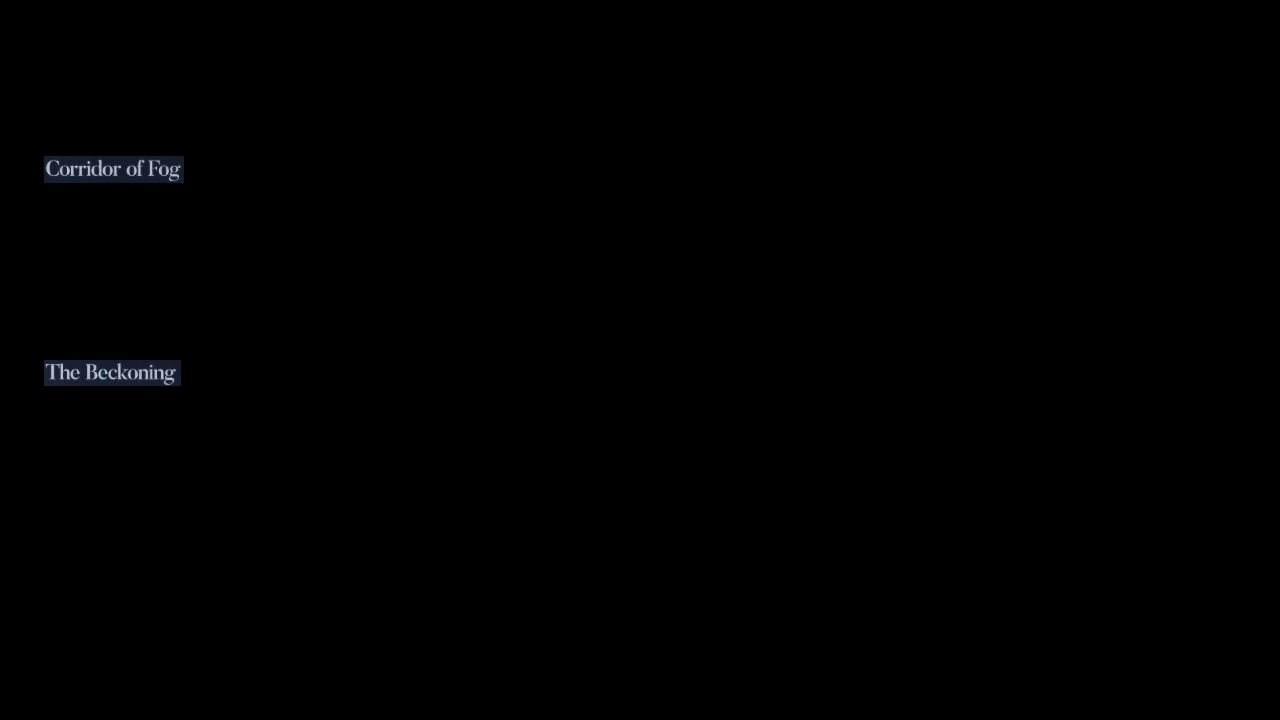
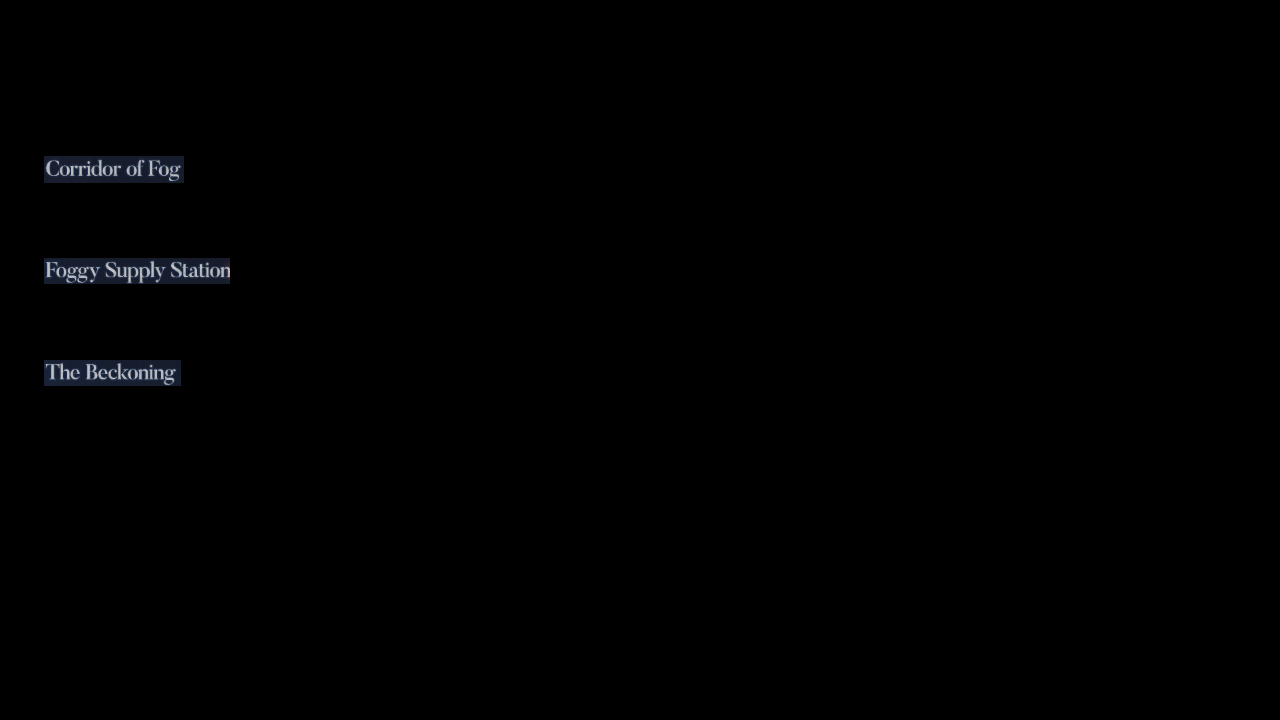
Observe exact Tempesta Foggy Supply Station tab once

Changed region(s): [[0.0312, 0.3361, 0.1875, 0.3972]]

diff --git a/tests/campaign/test_event_completion.py b/tests/campaign/test_event_completion.py
@@ -7,6 +7,7 @@ from module.campaign import event_completion as completion
 from module.campaign.event_completion import EventCompletion, load_reward_observations, save_reward_observations
 from module.campaign.event_completion_assets import (
     TEMPESTA_BECKONING_TAB, TEMPESTA_CAMPAIGN, TEMPESTA_EX_LOCKED, TEMPESTA_FEATURED_ENTRY,
+    TEMPESTA_FOGGY_SUPPLY_TAB,
     TEMPESTA_HUB, TEMPESTA_HUB_HOME, TEMPESTA_HUB_INACTIVE,
     TEMPESTA_HUB_LANDING, TEMPESTA_MAIN_ENTRY, TEMPESTA_REWARDS_TAB, TEMPESTA_SUPPLIES)
 from module.exception import GameNotRunningError, ScriptError
@@ -64,6 +65,7 @@ def test_mission_claims_do_not_report_the_unsupported_pt_ladder_as_collected():
     helper.observe_event_featured = Mock(return_value={'status': 'observed'})
     helper.observe_event_rewards_panel = Mock(return_value={'status': 'observed'})
     helper.observe_event_beckoning = Mock(return_value={'status': 'observed'})
+    helper.observe_event_foggy_supply = Mock(return_value={'status': 'observed'})
     helper.observe_event_rewards = Mock(return_value={'status': 'observed'})
     helper.observe_event_supplies = Mock(return_value={'status': 'observed'})
     result = helper.run('event_20261022_cn')
@@ -73,6 +75,7 @@ def test_mission_claims_do_not_report_the_unsupported_pt_ladder_as_collected():
                       'event_featured_observation': {'status': 'observed'},
                       'event_pt_observation': {'status': 'observed'},
                       'event_beckoning_observation': {'status': 'observed'},
+                      'event_foggy_supply_observation': {'status': 'observed'},
                       'event_reward_observation': {'status': 'observed'},
                       'event_supplies_observation': {'status': 'observed'}}
     helper.observe_event_rewards.assert_called_once_with('event_20261022_cn')
@@ -138,6 +141,7 @@ def test_main_observation_precedes_story_and_other_reward_navigation(monkeypatch
     helper.observe_event_featured = Mock(side_effect=lambda event: order.append('featured'))
     helper.observe_event_rewards_panel = Mock(side_effect=lambda event: order.append('pt'))
     helper.observe_event_beckoning = Mock(side_effect=lambda event: order.append('beckoning'))
+    helper.observe_event_foggy_supply = Mock(side_effect=lambda event: order.append('foggy_supply'))
     helper.observe_event_rewards = Mock(side_effect=lambda event: order.append('list'))
     helper.observe_event_supplies = Mock(side_effect=lambda event: order.append('supplies'))
     helper.collect_event_missions = Mock(side_effect=lambda: order.append('missions'))
@@ -145,7 +149,8 @@ def test_main_observation_precedes_story_and_other_reward_navigation(monkeypatch
     story.return_value.run.side_effect = lambda **kwargs: order.append('story')
     monkeypatch.setattr(completion, 'EventStory', story)
     helper.run('event_20261022_cn', complete_story=True)
-    assert order == ['main', 'hub', 'featured', 'pt', 'beckoning', 'story', 'list', 'supplies', 'missions']
+    assert order == ['main', 'hub', 'featured', 'pt', 'beckoning', 'foggy_supply',
+                     'story', 'list', 'supplies', 'missions']
 
 
 def test_hub_budget_precedes_navigation_and_is_reused_after_capture(monkeypatch, tmp_path):
@@ -371,16 +376,17 @@ def test_hub_home_exit_requires_both_observed_templates(missing):
         helper.device.click.assert_not_called()
 
 
+@pytest.mark.parametrize('filename', ['tempesta_rewards_catalog.png', 'tempesta_beckoning.png'])
 @pytest.mark.parametrize('missing', [None, 'title', 'home'])
-def test_catalog_selected_rewards_has_a_verified_home_exit(missing):
+def test_observed_subpanel_has_a_verified_home_exit(missing, filename):
     from pathlib import Path
     import numpy as np
     from PIL import Image
 
-    image = np.asarray(Image.open(Path('tests/campaign/data/tempesta_rewards_catalog.png')).convert('RGB')).copy()
+    image = np.asarray(Image.open(Path('tests/campaign/data') / filename).convert('RGB')).copy()
     assert not TEMPESTA_HUB.match_template_color(image, offset=(3, 3), similarity=.85)
     assert TEMPESTA_HUB_INACTIVE.match_template_color(image, offset=(3, 3), similarity=.85)
-    assert TEMPESTA_BECKONING_TAB.match_template_color(image, offset=(3, 3), similarity=.85)
+    assert TEMPESTA_FOGGY_SUPPLY_TAB.match_template_color(image, offset=(3, 3), similarity=.85)
     if missing:
         button = TEMPESTA_HUB_INACTIVE if missing == 'title' else TEMPESTA_HUB_HOME
         x1, y1, x2, y2 = button.area
@@ -432,54 +438,62 @@ def test_closed_game_does_not_spend_rewards_panel_budget(tmp_path):
     assert list(tmp_path.iterdir()) == []
 
 
-def test_beckoning_observation_has_an_independent_durable_budget(monkeypatch, tmp_path):
+@pytest.mark.parametrize('panel,tab', [('beckoning', TEMPESTA_BECKONING_TAB),
+                                     ('foggy_supply', TEMPESTA_FOGGY_SUPPLY_TAB)])
+def test_hub_tab_observation_has_an_independent_durable_budget(monkeypatch, tmp_path, panel, tab):
     helper = controller()
     previous = {'event_20261022_cn:featured': {'status': 'observed'},
                 'event_20261022_cn:pt_panel': {'status': 'observed'}}
+    if panel == 'foggy_supply':
+        previous['event_20261022_cn:beckoning'] = {'status': 'observed'}
     save_reward_observations('f2p', previous, folder=tmp_path)
 
     def inspect(record, **kwargs):
         state = load_reward_observations('f2p', folder=tmp_path)
         assert all(state[key] == value for key, value in previous.items())
-        assert state['event_20261022_cn:beckoning']['status'] == 'observing'
-        assert kwargs == {'tab_button': TEMPESTA_BECKONING_TAB, 'panel': 'beckoning'}
-        record.update(status='observed', beckoning_tab_clicks=1)
+        assert state['event_20261022_cn:' + panel]['status'] == 'observing'
+        assert kwargs == {'tab_button': tab, 'panel': panel}
+        record.update(status='observed', **{panel + '_tab_clicks': 1})
 
     helper._inspect_event_rewards_panel = Mock(side_effect=inspect)
     helper._return_event_hub_main = Mock(return_value=True)
     monkeypatch.setattr(completion, 'save_event_diagnostic', Mock(return_value='/tmp/beckoning.png'))
-    first = helper.observe_event_beckoning('event_20261022_cn', folder=tmp_path)
-    second = helper.observe_event_beckoning('event_20261022_cn', folder=tmp_path)
+    observe = getattr(helper, 'observe_event_' + panel)
+    first = observe('event_20261022_cn', folder=tmp_path)
+    second = observe('event_20261022_cn', folder=tmp_path)
     assert first['diagnostics'] == ['/tmp/beckoning.png']
     assert first['returned_main'] is True
     assert second['reused'] is True
     helper._inspect_event_rewards_panel.assert_called_once()
     helper._return_event_hub_main.assert_called_once()
-    completion.save_event_diagnostic.assert_called_once_with(helper.device, 'f2p_event_beckoning_observed')
+    completion.save_event_diagnostic.assert_called_once_with(helper.device, f'f2p_event_{panel}_observed')
 
 
-def test_interrupted_beckoning_observation_never_retries_entry(tmp_path):
-    save_reward_observations('f2p', {'event_20261022_cn:beckoning': {'status': 'observing'}}, folder=tmp_path)
+@pytest.mark.parametrize('panel', ['beckoning', 'foggy_supply'])
+def test_interrupted_hub_tab_observation_never_retries_entry(tmp_path, panel):
+    save_reward_observations('f2p', {'event_20261022_cn:' + panel: {'status': 'observing'}}, folder=tmp_path)
     helper = controller()
     helper._inspect_event_rewards_panel = Mock()
-    result = helper.observe_event_beckoning('event_20261022_cn', folder=tmp_path)
-    assert result['reason'] == 'previous_beckoning_observation_interrupted'
+    result = getattr(helper, 'observe_event_' + panel)('event_20261022_cn', folder=tmp_path)
+    assert result['reason'] == f'previous_{panel}_observation_interrupted'
     helper._inspect_event_rewards_panel.assert_not_called()
 
 
 @pytest.mark.parametrize('event', ['campaign_main', 'event_20251023_cn'])
-def test_beckoning_observer_rejects_unsupported_events_before_navigation(event, tmp_path):
+@pytest.mark.parametrize('panel', ['beckoning', 'foggy_supply'])
+def test_hub_tab_observer_rejects_unsupported_events_before_navigation(event, tmp_path, panel):
     helper = controller()
     helper.device.app_is_running = Mock(side_effect=AssertionError('must not navigate'))
-    assert helper.observe_event_beckoning(event, folder=tmp_path)['status'] == 'unsupported'
+    assert getattr(helper, 'observe_event_' + panel)(event, folder=tmp_path)['status'] == 'unsupported'
     assert list(tmp_path.iterdir()) == []
 
 
-def test_closed_game_does_not_spend_beckoning_budget(tmp_path):
+@pytest.mark.parametrize('panel', ['beckoning', 'foggy_supply'])
+def test_closed_game_does_not_spend_hub_tab_budget(tmp_path, panel):
     helper = controller()
     helper.device.app_is_running.return_value = False
     with pytest.raises(GameNotRunningError):
-        helper.observe_event_beckoning('event_20261022_cn', folder=tmp_path)
+        getattr(helper, 'observe_event_' + panel)('event_20261022_cn', folder=tmp_path)
     assert list(tmp_path.iterdir()) == []
 
 
@@ -536,23 +550,28 @@ def test_rewards_tab_entry_retries_are_bounded_and_template_verified(monkeypatch
     assert factory.call_args_list[1].kwargs == {'count': 4}
 
 
-@pytest.mark.parametrize('missing', [TEMPESTA_HUB, TEMPESTA_BECKONING_TAB, TEMPESTA_HUB_LANDING])
-def test_beckoning_tab_requires_current_event_title_label_and_landing(monkeypatch, missing):
+@pytest.mark.parametrize('panel,tab', [('beckoning', TEMPESTA_BECKONING_TAB),
+                                     ('foggy_supply', TEMPESTA_FOGGY_SUPPLY_TAB)])
+@pytest.mark.parametrize('missing', ['title', 'tab', 'landing'])
+def test_hub_tab_requires_current_event_title_label_and_landing(monkeypatch, missing, panel, tab):
     helper = controller()
     helper._inspect_event_hub = Mock(side_effect=lambda record, **kwargs: record.update(status='observed'))
     helper.loop = Mock(return_value=iter(range(5)))
-    helper.match_template_color = Mock(side_effect=lambda button, **kwargs: button != missing)
+    missing_button = {'title': TEMPESTA_HUB, 'tab': tab, 'landing': TEMPESTA_HUB_LANDING}[missing]
+    helper.match_template_color = Mock(side_effect=lambda button, **kwargs: button != missing_button)
     interval = Mock()
     interval.start.return_value = interval
     interval.reached.return_value = True
     monkeypatch.setattr(completion, 'Timer', Mock(return_value=interval))
     record = {}
-    helper._inspect_event_rewards_panel(record, tab_button=TEMPESTA_BECKONING_TAB, panel='beckoning')
-    assert record['reason'] == 'beckoning_tab_unrecognized'
+    helper._inspect_event_rewards_panel(record, tab_button=tab, panel=panel)
+    assert record['reason'] == f'{panel}_tab_unrecognized'
     helper.device.click.assert_not_called()
 
 
-def test_beckoning_observer_captures_destination_without_unknown_claim_actions(monkeypatch):
+@pytest.mark.parametrize('panel,tab', [('beckoning', TEMPESTA_BECKONING_TAB),
+                                     ('foggy_supply', TEMPESTA_FOGGY_SUPPLY_TAB)])
+def test_hub_tab_observer_captures_destination_without_unknown_claim_actions(monkeypatch, panel, tab):
     helper = controller()
     helper._inspect_event_hub = Mock(side_effect=lambda record, **kwargs: record.update(status='observed'))
     helper.loop = Mock(return_value=iter(range(5)))
@@ -564,12 +583,14 @@ def test_beckoning_observer_captures_destination_without_unknown_claim_actions(m
     interval.reached.return_value = True
     monkeypatch.setattr(completion, 'Timer', Mock(return_value=interval))
     record = {}
-    helper._inspect_event_rewards_panel(record, tab_button=TEMPESTA_BECKONING_TAB, panel='beckoning')
-    assert record['reason'] == 'beckoning_panel_assets_required'
-    helper.device.click.assert_called_once_with(TEMPESTA_BECKONING_TAB)
+    helper._inspect_event_rewards_panel(record, tab_button=tab, panel=panel)
+    assert record['reason'] == f'{panel}_panel_assets_required'
+    helper.device.click.assert_called_once_with(tab)
 
 
-def test_beckoning_entry_retries_at_most_twice_with_fresh_known_landing(monkeypatch):
+@pytest.mark.parametrize('panel,tab', [('beckoning', TEMPESTA_BECKONING_TAB),
+                                     ('foggy_supply', TEMPESTA_FOGGY_SUPPLY_TAB)])
+def test_hub_tab_entry_retries_at_most_twice_with_fresh_known_landing(monkeypatch, panel, tab):
     helper = controller()
     helper._inspect_event_hub = Mock(side_effect=lambda record, **kwargs: record.update(status='observed'))
     helper.loop = Mock(return_value=iter(range(10)))
@@ -580,10 +601,10 @@ def test_beckoning_entry_retries_at_most_twice_with_fresh_known_landing(monkeypa
     factory = Mock(return_value=interval)
     monkeypatch.setattr(completion, 'Timer', factory)
     record = {}
-    helper._inspect_event_rewards_panel(record, tab_button=TEMPESTA_BECKONING_TAB, panel='beckoning')
-    assert record['reason'] == 'beckoning_panel_did_not_open'
-    assert record['beckoning_tab_clicks'] == helper.device.click.call_count == 2
-    assert all(call.args[0] is TEMPESTA_BECKONING_TAB for call in helper.device.click.call_args_list)
+    helper._inspect_event_rewards_panel(record, tab_button=tab, panel=panel)
+    assert record['reason'] == f'{panel}_panel_did_not_open'
+    assert record[panel + '_tab_clicks'] == helper.device.click.call_count == 2
+    assert all(call.args[0] is tab for call in helper.device.click.call_args_list)
     assert factory.call_args_list[1].args == (3,)
     assert factory.call_args_list[1].kwargs == {'count': 4}
 

diff --git a/module/campaign/event_completion.py b/module/campaign/event_completion.py
@@ -12,7 +12,8 @@ from time import monotonic
 
 from module.base.timer import Timer
 from module.campaign.event_completion_assets import (
-    TEMPESTA_BECKONING_TAB, TEMPESTA_CAMPAIGN, TEMPESTA_FEATURED_ENTRY, TEMPESTA_HUB, TEMPESTA_HUB_HOME,
+    TEMPESTA_BECKONING_TAB, TEMPESTA_CAMPAIGN, TEMPESTA_FEATURED_ENTRY, TEMPESTA_FOGGY_SUPPLY_TAB,
+    TEMPESTA_HUB, TEMPESTA_HUB_HOME,
     TEMPESTA_HUB_INACTIVE,
     TEMPESTA_HUB_LANDING, TEMPESTA_MAIN_ENTRY, TEMPESTA_REWARDS_TAB, TEMPESTA_SUPPLIES)
 from module.combat.assets import GET_ITEMS_1, GET_ITEMS_2, GET_SHIP
@@ -275,32 +276,39 @@ class EventCompletion(Reward):
 
     def observe_event_beckoning(self, event, folder=REWARD_OBSERVATION_DIR):
         """Inspect the observed Beckoning tab once, without acting in its panel."""
+        return self._observe_event_tab(event, TEMPESTA_BECKONING_TAB, 'beckoning', folder=folder)
+
+    def observe_event_foggy_supply(self, event, folder=REWARD_OBSERVATION_DIR):
+        """Inspect the known Foggy Supply Station tab without buying or claiming."""
+        return self._observe_event_tab(event, TEMPESTA_FOGGY_SUPPLY_TAB, 'foggy_supply', folder=folder)
+
+    def _observe_event_tab(self, event, tab, panel, folder=REWARD_OBSERVATION_DIR):
         if event not in REWARD_OBSERVATION_EVENTS:
             return dict(status='unsupported', diagnostics=[])
         ensure_event_running(self)
         account = self.config.config_name
         state = load_reward_observations(account, folder=folder)
-        key = event + ':beckoning'
+        key = event + ':' + panel
         if key in state:
             record = dict(state[key])
             if record.get('status') == 'observing':
-                record.update(status='blocked', reason='previous_beckoning_observation_interrupted')
+                record.update(status='blocked', reason=f'previous_{panel}_observation_interrupted')
             record['reused'] = True
-            logger.attr('EventBeckoningObservation', record)
+            logger.attr(f'EventTabObservation.{panel}', record)
             return record
         record = dict(status='observing', diagnostics=[], returned_main=False,
                       started=datetime.now().isoformat(timespec='seconds'))
         state[key] = record
         save_reward_observations(account, state, folder=folder)
         try:
-            self._inspect_event_rewards_panel(record, tab_button=TEMPESTA_BECKONING_TAB, panel='beckoning')
-            path = save_event_diagnostic(self.device, f'{account}_event_beckoning_{record["status"]}')
+            self._inspect_event_rewards_panel(record, tab_button=tab, panel=panel)
+            path = save_event_diagnostic(self.device, f'{account}_event_{panel}_{record["status"]}')
             if path:
                 record['diagnostics'].append(path)
             else:
                 record.update(status='blocked', reason='diagnostic_not_saved')
         except Exception:
-            record.update(status='blocked', reason='beckoning_observation_exception')
+            record.update(status='blocked', reason=f'{panel}_observation_exception')
             raise
         finally:
             try:
@@ -309,7 +317,7 @@ class EventCompletion(Reward):
                     record['return_reason'] = 'main_return_unrecognized'
             finally:
                 save_reward_observations(account, state, folder=folder)
-        logger.attr('EventBeckoningObservation', record)
+        logger.attr(f'EventTabObservation.{panel}', record)
         return record
 
     def observe_event_main(self, event, folder=REWARD_OBSERVATION_DIR):
@@ -576,6 +584,7 @@ class EventCompletion(Reward):
             result['event_featured_observation'] = self.observe_event_featured(event)
             result['event_pt_observation'] = self.observe_event_rewards_panel(event)
             result['event_beckoning_observation'] = self.observe_event_beckoning(event)
+            result['event_foggy_supply_observation'] = self.observe_event_foggy_supply(event)
         # Story detection taps entrances, so gate before constructing its controller.
         if complete_story:
             if event in SUPPORTED_STORY_EVENTS:

diff --git a/tests/campaign/test_event_story.py b/tests/campaign/test_event_story.py
@@ -241,7 +241,8 @@ def test_idle_wakeup_uses_existing_navigation_click_and_settle_budget(monkeypatc
 
 
 @pytest.mark.parametrize('filename,title', [('tempesta_hub.png', 'TEMPESTA_HUB'),
-                                         ('tempesta_rewards_catalog.png', 'TEMPESTA_HUB_INACTIVE')])
+                                         ('tempesta_rewards_catalog.png', 'TEMPESTA_HUB_INACTIVE'),
+                                         ('tempesta_beckoning.png', 'TEMPESTA_HUB_INACTIVE')])
 @pytest.mark.parametrize('missing', [None, 'title', 'home'])
 def test_captured_tempesta_hub_exit_requires_title_and_home(missing, filename, title):
     from pathlib import Path

diff --git a/module/campaign/event_completion_assets.py b/module/campaign/event_completion_assets.py
@@ -58,3 +58,6 @@ TEMPESTA_HUB_INACTIVE = Button(
 TEMPESTA_BECKONING_TAB = Button(
     area=(44, 360, 181, 386), color=(53, 61, 79), button=(45, 359, 192, 388),
     file=_PANELS, name='TEMPESTA_BECKONING_TAB')
+TEMPESTA_FOGGY_SUPPLY_TAB = Button(
+    area=(44, 258, 230, 284), color=(54, 61, 77), button=(45, 257, 230, 287),
+    file=_PANELS, name='TEMPESTA_FOGGY_SUPPLY_TAB')
